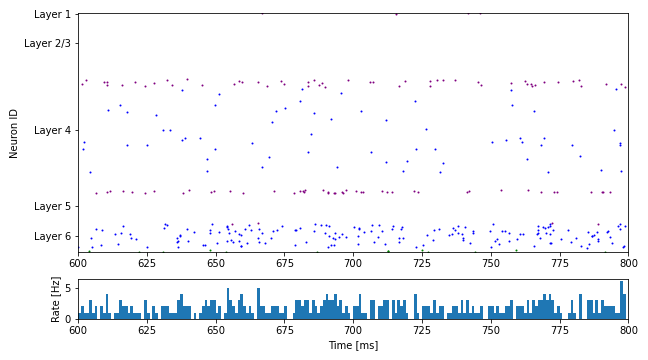
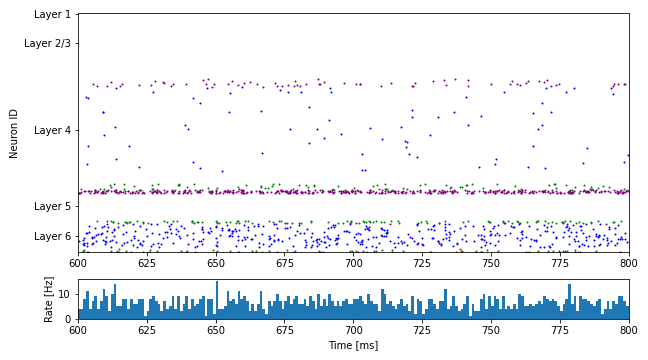
updated

diff --git a/simulation/PING.py b/simulation/PING.py
@@ -1,0 +1,142 @@
+import numpy as np
+import pylab as plt
+from functions import get_firing_rate, get_irregularity, get_synchrony
+
+import IPython
+
+inpute_net1 = 9
+inpute_net2 = 12
+inputi_net1 = 4
+inputi_net2 = 4
+cop_val    = 0.0
+
+
+Ne1 = 200
+Ne2 = 200
+Ni1 = 50
+Ni2 = 50
+Ne  = Ne1 + Ne2
+Ni  = Ni1 + Ni2
+
+a = np.concatenate([0.02 * np.ones(Ne), 0.1*np.ones(Ni)]) # Time scale of recovery variable
+b = np.concatenate([0.2  * np.ones(Ne), 0.2*np.ones(Ni)]) # Sensitivity of recovery variable
+c = np.concatenate([-65  * np.ones(Ne), -65*np.ones(Ni)]) # Reset value of membrane potential
+d = np.concatenate([8    * np.ones(Ne), 2  *np.ones(Ni)]) # Reset value of recovery variable
+v = -65 * np.ones(Ne + Ni) # Initial values of membrane potential
+u = b * v   # Initial values of recovery variable
+spikes2 = [[]]*(Ne+Ni) # Spike timings
+spikes = []
+
+simulation_time = 1000
+dt = 1
+Ntot = Ne+Ni
+
+# Gaussian input
+mean_E = [inpute_net1, inpute_net2]
+var_E  = 3
+mean_I = [inputi_net1, inputi_net2]
+var_I  = 3
+
+gampa = np.zeros(Ne)
+gaba  = np.zeros(Ni)
+decay_ampa = 1
+decay_gaba = 7
+rise_ampa  = 0.15
+rise_gaba  = 0.2
+
+# Connectivity
+EE = 0.05
+EI = 0.4
+IE = 0.3
+II = 0.2
+
+# E -> I
+C1 = cop_val    # E1 > I2
+C2 = cop_val    # E2 > I1
+# E -> E
+C3 = cop_val/4  # E1 > E2
+C4 = cop_val/4  # E2 > E1
+
+S = np.zeros((Ntot, Ntot))
+
+E1_idx = np.arange(Ne1)
+E2_idx = np.arange(Ne1, Ne1+Ne2)
+I1_idx = np.arange(Ne1+Ne2, Ne1+Ne2+Ni1)
+I2_idx = np.arange(Ne1+Ne2+Ni1, Ntot)
+
+# Within network
+S[np.ix_(E1_idx, E1_idx)] = EE * np.random.randn(Ne1, Ne1)
+S[np.ix_(I1_idx, E1_idx)] = EI * np.random.randn(Ni1, Ne1)
+S[np.ix_(E1_idx, I1_idx)] = IE * np.random.randn(Ne1, Ni1)
+S[np.ix_(I1_idx, I1_idx)] = II * np.random.randn(Ni1, Ni1)
+
+S[np.ix_(E2_idx, E2_idx)] = EE * np.random.randn(Ne2, Ne2)
+S[np.ix_(I2_idx, E2_idx)] = EI * np.random.randn(Ni2, Ne2)
+S[np.ix_(E2_idx, I2_idx)] = IE * np.random.randn(Ne2, Ni2)
+S[np.ix_(I2_idx, I2_idx)] = II * np.random.randn(Ni2, Ni2)
+
+# Between network
+S[np.ix_(I2_idx, E1_idx)] = C1 * np.random.randn(Ni2, Ne1)
+S[np.ix_(I1_idx, E2_idx)] = C2 * np.random.randn(Ni1, Ne2)
+S[np.ix_(E2_idx, E1_idx)] = C3 * np.random.randn(Ne2, Ne1)
+S[np.ix_(E1_idx, E2_idx)] = C4 * np.random.randn(Ne1, Ne2)
+
+V = np.zeros((Ntot, int(simulation_time/dt)))
+U = np.zeros((Ntot, int(simulation_time/dt)))
+F = np.zeros((Ntot, int(simulation_time/dt)))
+# Simulation
+for t in range(int(simulation_time/dt)):
+    I = np.concatenate([np.random.normal(mean_E[0], var_E, Ne1), 
+                        np.random.normal(mean_E[1], var_I, Ne2),
+                        np.random.normal(mean_I[0], var_E, Ni1),
+                        np.random.normal(mean_I[1], var_I, Ni2)])   # Thalamic input
+    
+    fired = np.where(v >= 30)[0] # indices of spikes
+    
+    for spike in fired:
+        if t == 3:
+            print(f"appending {t} in {spike}")
+        spikes2[spike].append(t)
+    
+    
+    spikes.append(fired)
+    v[fired] = c[fired]
+    u[fired] = u[fired] + d[fired]
+    dgampa = 0.3 * (((1 + np.tanh((v[:Ne]/10) + 2))/2) * (1-gampa)/rise_ampa - gampa/decay_ampa)
+    gampa = gampa + dt * dgampa 
+    dgaba = 0.3 * (((1 + np.tanh((v[Ne:]/10) + 2))/2) * (1-gaba)/rise_gaba - gaba/decay_gaba)
+    gaba = gaba + dt * dgaba
+    
+    I = I + np.dot(S, np.concatenate([gampa, gaba]))
+    v = v + 0.5 * (0.04 * v**2 + 5 * v + 140 - u + I)   # step 0.5 ms
+    v = v + 0.5 * (0.04 * v**2 + 5 * v + 140 - u + I)   # for numerical
+    u = u + a * (b * v - u)                             # stability
+
+    V[:, t] = v
+    U[:, t] = u
+    F[fired, t] = 1
+
+# Post-processing
+plt.figure()
+plt.subplot(311)
+plt.title('Membrane potential')
+plt.plot(np.mean(V[E1_idx, :], axis=0), color='blue', linewidth=2, linestyle='-',  label='E1')
+plt.plot(np.mean(V[E2_idx, :], axis=0), color='blue', linewidth=2, linestyle='--', label='E2')
+plt.plot(np.mean(V[I1_idx, :], axis=0), color='red',  linewidth=2, linestyle='-',  label='I1')
+plt.plot(np.mean(V[I2_idx, :], axis=0), color='red',  linewidth=2, linestyle='--', label='I2')
+plt.legend()
+
+plt.subplot(312)
+plt.title('Recovery variable')
+plt.plot(np.mean(U[E1_idx, :], axis=0), color='blue', linewidth=2, linestyle='-',  label='E1')
+plt.plot(np.mean(U[E2_idx, :], axis=0), color='blue', linewidth=2, linestyle='--', label='E2')
+plt.plot(np.mean(U[I1_idx, :], axis=0), color='red',  linewidth=2, linestyle='-',  label='I1')
+plt.plot(np.mean(U[I2_idx, :], axis=0), color='red',  linewidth=2, linestyle='--', label='I2')
+
+plt.subplot(313)
+plt.title('Spikes')
+plt.imshow(F, aspect='auto', cmap='coolwarm_r')
+
+plt.show()
+
+IPython.embed()

diff --git a/simulation/optimize_bkg_input.py b/simulation/optimize_bkg_input.py
@@ -21,7 +21,7 @@ def objective_function(**args):
     ## Change values and run the function with different parameters
     params['ext_rate'] = args['ext_rate']
     params['ext_weights'] = np.array([args[x] for x in args if 'weight' in x])
-    params['K_scale'] = args['K_scale']
+    #params['K_scale'] = args['K_scale']
 
     ## Write parameters to file so the network can read it in
     with open("params", 'wb') as f:
@@ -37,7 +37,7 @@ def objective_function(**args):
     process = subprocess.Popen(command.split(), stdout=subprocess.PIPE, stderr=subprocess.PIPE, 
                                cwd=cwd, env=env)
     return_code = process.wait()
-    # print("Script exited with return code:", return_code)
+    #print("Script exited with return code:", return_code)
     output, error = process.communicate()
     # print("Standard output:\n", output.decode())
     # print("Error output:\n", error.decode())
@@ -54,18 +54,19 @@ def objective_function(**args):
     
     ## Compute scores for how close to our target values we got this run
     scores = [(target_irregularity - irregularity[i])**2 + (synchrony[i] - target_synchrony)**2 + (firing_rate[i] - target_firing_rate)**2 for i in list(range(len(irregularity)))]
-        
+    
+    print(f"Scores:\n {scores}")
     # Return the negative of the score since the Bayesian optimization maximizes the objective function
     return -np.mean(scores)
 
 def optimize_network(optimizer):
     
-    uf = UtilityFunction(kind = "ei", kappa = 1.96, xi = 0.01)
+    uf = UtilityFunction(kind = "ucb", kappa = 4, xi = 0.2) # xi = 0.01 , kappa = 1.96
     
     optimizer.set_gp_params(alpha=1e-5, n_restarts_optimizer=5, normalize_y=True)
     
     optimizer.maximize(
-            init_points=50,
+            init_points=60,
             n_iter=300,
             acquisition_function=uf
         )
@@ -99,7 +100,6 @@ if __name__ == '__main__':
     for i in range(17):
         #pbounds[f'pop{i}_stim_nodes'] = (500,2000)
         pbounds[f'pop{i}_weights'] = (1e-24, 7e0)
-    pbounds['K_scale'] = (0.15,1)
     
     # ## Define the Bayesian optimizer
     # optimizer = BayesianOptimization(

diff --git a/simulation/functions.py b/simulation/functions.py
@@ -139,7 +139,7 @@ class Network:
             delay = nest.math.redraw(nest.random.normal(
                 mean = 1.5,
                 std=abs(1.5*0.1)),
-                min=nest.resolution - 0.5 * nest.resolution,
+                min=nest.resolution, # Why would we do this? -> - 0.5 * nest.resolution,
                 max=np.Inf)
             
             
@@ -565,7 +565,7 @@ def get_synchrony(population, start, stop):
     mean_spike_count = np.mean(spike_counts)
     if mean_spike_count == 0:
         ## Penalize no firing rate more than high synchrony
-        return 2
+        return 10000
     var_spike_count = np.var(spike_counts)
     vm_ratio = var_spike_count / mean_spike_count
     return vm_ratio
@@ -588,13 +588,17 @@ def get_irregularity(population):
         Returns -1 if there is no data for that population
 
     """
-    try:
-        isi = np.concatenate([np.diff(neuron) for neuron in population if len(neuron) > 1])
-    except:
+    isi = [np.diff(np.sort(neuron)) for neuron in population]
+    cv  = [np.std(i) / np.mean(i) for i in isi if not np.isnan(np.std(i) / np.mean(i))]
+    # isi = list(itertools.chain(*population))
+    # isi = np.concatenate([np.diff(neuron) for neuron in population if len(neuron) > 1])
+    if len(cv) == 0:
         ## Penalize no firing rate harder than no irregularity
-        return -2
-    cv = np.std(isi) / np.mean(isi)
-    return cv if np.isfinite(cv) else np.nan
+        return 10000
+    
+    irregularity = np.mean(cv)
+
+    return irregularity
 
 def get_firing_rate(spike_times, start, stop):
     spikes_total = list(itertools.chain(*spike_times))
@@ -603,7 +607,7 @@ def get_firing_rate(spike_times, start, stop):
     
     ## Penalize silent populations
     if afr == 0:
-        return 20
+        return 10000
     
     return afr
 

diff --git a/simulation/setup.py b/simulation/setup.py
@@ -104,13 +104,13 @@ def setup():
     # 1e-24, 3.2543403859854227, 0.641944589590017, 2.1834687407340443,
     # 7.0, 1e-24, 2.986536780670069, 0.5803055054744614
     
-    params['ext_rate']    = 0.5
+    params['ext_rate']    = 0.6243191217570061
     params['ext_nodes']   = np.array([1400, 1000, 1400, 1200, 1100, 1500, 1800, 1800, 1800, 1700, 1900, 1900, 1900, 2600, 2100, 2100, 2100])
-    params['ext_weights'] = [4.928921885732365,
-    2.686377916761777, 4.51858066887819, 2.149642324556923, 4.946103075445058,
-    4.252660578581856, 7.0, 1e-24, 2.7404290734571073,
-    1e-24, 3.2543403859854227, 0.641944589590017, 2.1834687407340443,
-    7.0, 1e-24, 2.986536780670069, 0.5803055054744614]
+    params['ext_weights'] = [1.7965744951318477, 
+                             3.462524932070633, 2.818597965224434, 2.247184199171211, 3.9053839597064073, 
+                             2.85422324169895, 5.841405598126207, 4.897362276797087, 5.427810123924406, 
+                             1.2781009467815937, 0.49233409130867667, 3.3180440299163823, 2.444171890699541, 
+                             5.760764434899142, 3.42695472801618, 3.777543770653454, 6.266822560118546]
     
     ## Write parameters to file so the network can read it in
     with open("params", 'wb') as f:

diff --git a/simulation/run.py b/simulation/run.py
@@ -14,6 +14,7 @@ import nest
 from functions import Network, raster, rate, approximate_lfp_timecourse, get_isi, get_irregularity, get_synchrony, get_firing_rate, join_results, prep_spikes
 #import icsd
 import time
+from setup import setup
 
 import pickle
 
@@ -33,7 +34,7 @@ def run_network():
     ########################
 
     nest.ResetKernel()
-    nest.local_num_threads = 64 ## adapt if necessary
+    nest.local_num_threads = 32 ## adapt if necessary
     nest.print_time = False
     resolution = 0.1
     nest.resolution = resolution
@@ -220,8 +221,5 @@ def run_network():
             pickle.dump(data, f)
         return (irregularity, synchrony, firing_rate)
      
-# params = setup()
-# params['ext_rate'] = nyan['ext_rate']
-# params['ext_nodes'] = np.array([nyan[x] for x in nyan if 'node' in x])
-# params['ext_weights'] = np.array([nyan[x] for x in nyan if 'weights' in x])
+# setup()
 nya = run_network()
